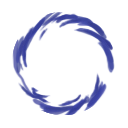
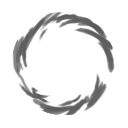
implement custom orb vfx

Changed region(s): [[0.0938, 0.0938, 0.9062, 0.5938], [0.1562, 0.5938, 0.8438, 0.9062], [0.3125, 0.25, 0.3438, 0.3125]]

diff --git a/src/main/java/hydrologistmod/ui/EnergyOrbHydrologist.java b/src/main/java/hydrologistmod/ui/EnergyOrbHydrologist.java
@@ -1,0 +1,153 @@
+package hydrologistmod.ui;
+
+import basemod.abstracts.CustomEnergyOrb;
+import com.badlogic.gdx.Gdx;
+import com.badlogic.gdx.graphics.Color;
+import com.badlogic.gdx.graphics.GL20;
+import com.badlogic.gdx.graphics.Texture;
+import com.badlogic.gdx.graphics.g2d.SpriteBatch;
+import com.badlogic.gdx.graphics.g2d.TextureRegion;
+import com.badlogic.gdx.graphics.glutils.FrameBuffer;
+import com.badlogic.gdx.math.Interpolation;
+import com.megacrit.cardcrawl.cards.AbstractCard;
+import com.megacrit.cardcrawl.core.Settings;
+import com.megacrit.cardcrawl.helpers.ImageMaster;
+import hydrologistmod.HydrologistMod;
+import hydrologistmod.patches.HydrologistTags;
+
+import java.util.HashMap;
+
+public class EnergyOrbHydrologist extends CustomEnergyOrb {
+    private static TextureRegion HYDROLOGIST_ORB_BACKGROUND = new TextureRegion(new Texture("hydrologistmod/images/char/orb/background.png"));
+    private static TextureRegion HYDROLOGIST_ORB_LAYER_2 = new TextureRegion(new Texture("hydrologistmod/images/char/orb/layer2.png"));
+    private static TextureRegion HYDROLOGIST_ORB_LAYER_3 = new TextureRegion(new Texture("hydrologistmod/images/char/orb/layer3.png"));
+    private static TextureRegion HYDROLOGIST_ORB_LAYER_4 = new TextureRegion(new Texture("hydrologistmod/images/char/orb/layer4.png"));
+    private static TextureRegion HYDROLOGIST_ORB_LAYER_5 = new TextureRegion(new Texture("hydrologistmod/images/char/orb/layer5.png"));
+    private static TextureRegion HYDROLOGIST_ORB_LAYER_2D = new TextureRegion(new Texture("hydrologistmod/images/char/orb/layer2d.png"));
+    private static TextureRegion HYDROLOGIST_ORB_LAYER_3D = new TextureRegion(new Texture("hydrologistmod/images/char/orb/layer3d.png"));
+    private static TextureRegion HYDROLOGIST_ORB_LAYER_4D = new TextureRegion(new Texture("hydrologistmod/images/char/orb/layer4d.png"));
+    private static TextureRegion HYDROLOGIST_ORB_LAYER_5D = new TextureRegion(new Texture("hydrologistmod/images/char/orb/layer5d.png"));
+    private static TextureRegion HYDROLOGIST_ORB_MASK = new TextureRegion(new Texture("hydrologistmod/images/char/orb/mask.png"));
+    private static TextureRegion HYDROLOGIST_ORB_LAYER_6 = new TextureRegion(new Texture("hydrologistmod/images/char/orb/border.png"));
+    private static float SPIN_OFFSET_X = 32.0f * Settings.scale;
+    private static float SPIN_OFFSET_Y = -32.0f * Settings.scale;
+    private static float OFFSET_X = 0.0f * Settings.scale;
+    private static float OFFSET_Y = 20.0f * Settings.scale;
+    private static float ORB_SCALE = 1.15f * Settings.scale;
+
+    private FrameBuffer fbo;
+    private float angle2;
+    private float angle3;
+    private float angle4;
+    private float angle5;
+
+    private static Color WATER_COLOR = Color.BLUE.cpy();
+    private static Color ICE_COLOR = Color.CYAN.cpy();
+    private static Color STEAM_COLOR = Color.LIGHT_GRAY.cpy();
+    private static HashMap<AbstractCard.CardTags, Color> colorsMap;
+    private static HashMap<AbstractCard.CardTags, Float> speedsMap;
+    private static float TRANSITION_TIME = 1.0f;
+    private AbstractCard.CardTags current = HydrologistTags.WATER;
+    private AbstractCard.CardTags target = HydrologistTags.WATER;
+    private float transitionTimer = 0.0f;
+    private Color color = WATER_COLOR.cpy();
+
+    public EnergyOrbHydrologist() {
+        super(null, null, null);
+        fbo = HydrologistMod.createBuffer();
+
+        orbVfx = ImageMaster.loadImage("hydrologistmod/images/char/orb/vfx.png");
+
+        if (colorsMap == null) {
+            colorsMap = new HashMap<>();
+            colorsMap.put(HydrologistTags.ICE, ICE_COLOR);
+            colorsMap.put(HydrologistTags.WATER, WATER_COLOR);
+            colorsMap.put(HydrologistTags.STEAM, STEAM_COLOR);
+        }
+        if (speedsMap == null) {
+            speedsMap = new HashMap<>();
+            speedsMap.put(HydrologistTags.ICE, 0.5f);
+            speedsMap.put(HydrologistTags.WATER, 1.0f);
+            speedsMap.put(HydrologistTags.STEAM, 1.5f);
+        }
+    }
+
+    @Override
+    public void updateOrb(int energyCount) {
+        float time = Gdx.graphics.getDeltaTime();
+        float multiplier;
+
+        //update color and spin speed
+        if (transitionTimer > 0.0f) {
+            color.r = Interpolation.linear.apply(colorsMap.get(target).r, colorsMap.get(current).r, transitionTimer / TRANSITION_TIME);
+            color.g = Interpolation.linear.apply(colorsMap.get(target).g, colorsMap.get(current).g, transitionTimer / TRANSITION_TIME);
+            color.b = Interpolation.linear.apply(colorsMap.get(target).b, colorsMap.get(current).b, transitionTimer / TRANSITION_TIME);
+            multiplier = Interpolation.linear.apply(speedsMap.get(target), speedsMap.get(current),transitionTimer / TRANSITION_TIME);
+            transitionTimer -= time;
+        } else {
+            current = target;
+            color = colorsMap.get(current).cpy();
+            multiplier = speedsMap.get(current);
+        }
+
+        if (energyCount == 0) {
+            angle5 += time * 5.0f * multiplier;
+            angle4 += time * -5.0f * multiplier;
+            angle3 += time * 8.0f * multiplier;
+            angle2 += time * -8.0f * multiplier;
+        } else {
+            angle5 += time * 20.0f * multiplier;
+            angle4 += time * -20.0f * multiplier;
+            angle3 += time * 40.0f * multiplier;
+            angle2 += time * -40.0f * multiplier;
+        }
+    }
+
+    @Override
+    public void renderOrb(SpriteBatch sb, boolean enabled, float current_x, float current_y) {
+        sb.end();
+
+        //render pre-mask in buffer
+        HydrologistMod.beginBuffer(fbo);
+        sb.begin();
+        sb.setColor(color);
+        sb.setBlendFunction(GL20.GL_SRC_ALPHA, GL20.GL_ONE_MINUS_SRC_ALPHA);
+        sb.draw(HYDROLOGIST_ORB_BACKGROUND, current_x - (HYDROLOGIST_ORB_BACKGROUND.getRegionWidth() / 2.0f) + OFFSET_X, current_y - (HYDROLOGIST_ORB_BACKGROUND.getRegionHeight() / 2.0f) + OFFSET_Y, HYDROLOGIST_ORB_BACKGROUND.getRegionWidth() / 2.0f, HYDROLOGIST_ORB_BACKGROUND.getRegionHeight() / 2.0f, HYDROLOGIST_ORB_BACKGROUND.getRegionWidth(), HYDROLOGIST_ORB_BACKGROUND.getRegionHeight(), ORB_SCALE, ORB_SCALE, 0.0f);
+        if (enabled) {
+            sb.draw(HYDROLOGIST_ORB_LAYER_2, current_x - (HYDROLOGIST_ORB_LAYER_2.getRegionWidth() / 2.0f) + SPIN_OFFSET_X + OFFSET_X, current_y - (HYDROLOGIST_ORB_LAYER_2.getRegionHeight() / 2.0f) + SPIN_OFFSET_Y + OFFSET_Y, HYDROLOGIST_ORB_LAYER_2.getRegionWidth() / 2.0f, HYDROLOGIST_ORB_LAYER_2.getRegionHeight() / 2.0f, HYDROLOGIST_ORB_LAYER_2.getRegionWidth(), HYDROLOGIST_ORB_LAYER_2.getRegionHeight(), ORB_SCALE, ORB_SCALE, angle2);
+            sb.draw(HYDROLOGIST_ORB_LAYER_3, current_x - (HYDROLOGIST_ORB_LAYER_3.getRegionWidth() / 2.0f) + SPIN_OFFSET_X + OFFSET_X, current_y - (HYDROLOGIST_ORB_LAYER_3.getRegionHeight() / 2.0f) + SPIN_OFFSET_Y + OFFSET_Y, HYDROLOGIST_ORB_LAYER_3.getRegionWidth() / 2.0f, HYDROLOGIST_ORB_LAYER_3.getRegionHeight() / 2.0f, HYDROLOGIST_ORB_LAYER_3.getRegionWidth(), HYDROLOGIST_ORB_LAYER_3.getRegionHeight(), ORB_SCALE, ORB_SCALE, angle3);
+            sb.draw(HYDROLOGIST_ORB_LAYER_4, current_x - (HYDROLOGIST_ORB_LAYER_4.getRegionWidth() / 2.0f) + SPIN_OFFSET_X + OFFSET_X, current_y - (HYDROLOGIST_ORB_LAYER_4.getRegionHeight() / 2.0f) + SPIN_OFFSET_Y + OFFSET_Y, HYDROLOGIST_ORB_LAYER_4.getRegionWidth() / 2.0f, HYDROLOGIST_ORB_LAYER_4.getRegionHeight() / 2.0f, HYDROLOGIST_ORB_LAYER_4.getRegionWidth(), HYDROLOGIST_ORB_LAYER_4.getRegionHeight(), ORB_SCALE, ORB_SCALE, angle4);
+            sb.draw(HYDROLOGIST_ORB_LAYER_5, current_x - (HYDROLOGIST_ORB_LAYER_5.getRegionWidth() / 2.0f) + SPIN_OFFSET_X + OFFSET_X, current_y - (HYDROLOGIST_ORB_LAYER_5.getRegionHeight() / 2.0f) + SPIN_OFFSET_Y + OFFSET_Y, HYDROLOGIST_ORB_LAYER_5.getRegionWidth() / 2.0f, HYDROLOGIST_ORB_LAYER_5.getRegionHeight() / 2.0f, HYDROLOGIST_ORB_LAYER_5.getRegionWidth(), HYDROLOGIST_ORB_LAYER_5.getRegionHeight(), ORB_SCALE, ORB_SCALE, angle5);
+        } else {
+            sb.draw(HYDROLOGIST_ORB_LAYER_2D, current_x - (HYDROLOGIST_ORB_LAYER_2D.getRegionWidth() / 2.0f) + SPIN_OFFSET_X + OFFSET_X, current_y - (HYDROLOGIST_ORB_LAYER_2D.getRegionHeight() / 2.0f) + SPIN_OFFSET_Y + OFFSET_Y, HYDROLOGIST_ORB_LAYER_2D.getRegionWidth() / 2.0f, HYDROLOGIST_ORB_LAYER_2D.getRegionHeight() / 2.0f, HYDROLOGIST_ORB_LAYER_2D.getRegionWidth(), HYDROLOGIST_ORB_LAYER_2D.getRegionHeight(), ORB_SCALE, ORB_SCALE, angle2);
+            sb.draw(HYDROLOGIST_ORB_LAYER_3D, current_x - (HYDROLOGIST_ORB_LAYER_3D.getRegionWidth() / 2.0f) + SPIN_OFFSET_X + OFFSET_X, current_y - (HYDROLOGIST_ORB_LAYER_3D.getRegionHeight() / 2.0f) + SPIN_OFFSET_Y + OFFSET_Y, HYDROLOGIST_ORB_LAYER_3D.getRegionWidth() / 2.0f, HYDROLOGIST_ORB_LAYER_3D.getRegionHeight() / 2.0f, HYDROLOGIST_ORB_LAYER_3D.getRegionWidth(), HYDROLOGIST_ORB_LAYER_3D.getRegionHeight(), ORB_SCALE, ORB_SCALE, angle3);
+            sb.draw(HYDROLOGIST_ORB_LAYER_4D, current_x - (HYDROLOGIST_ORB_LAYER_4D.getRegionWidth() / 2.0f) + SPIN_OFFSET_X + OFFSET_X, current_y - (HYDROLOGIST_ORB_LAYER_4D.getRegionHeight() / 2.0f) + SPIN_OFFSET_Y + OFFSET_Y, HYDROLOGIST_ORB_LAYER_4D.getRegionWidth() / 2.0f, HYDROLOGIST_ORB_LAYER_4D.getRegionHeight() / 2.0f, HYDROLOGIST_ORB_LAYER_4D.getRegionWidth(), HYDROLOGIST_ORB_LAYER_4D.getRegionHeight(), ORB_SCALE, ORB_SCALE, angle4);
+            sb.draw(HYDROLOGIST_ORB_LAYER_5D, current_x - (HYDROLOGIST_ORB_LAYER_5D.getRegionWidth() / 2.0f) + SPIN_OFFSET_X + OFFSET_X, current_y - (HYDROLOGIST_ORB_LAYER_5D.getRegionHeight() / 2.0f) + SPIN_OFFSET_Y + OFFSET_Y, HYDROLOGIST_ORB_LAYER_5D.getRegionWidth() / 2.0f, HYDROLOGIST_ORB_LAYER_5D.getRegionHeight() / 2.0f, HYDROLOGIST_ORB_LAYER_5D.getRegionWidth(), HYDROLOGIST_ORB_LAYER_5D.getRegionHeight(), ORB_SCALE, ORB_SCALE, angle5);
+        }
+        sb.setBlendFunction(0, GL20.GL_SRC_ALPHA);
+        sb.setColor(new Color(1, 1, 1, 1));
+        sb.draw(HYDROLOGIST_ORB_MASK, current_x - (HYDROLOGIST_ORB_MASK.getRegionWidth() / 2.0f) + OFFSET_X, current_y - (HYDROLOGIST_ORB_MASK.getRegionHeight() / 2.0f) + OFFSET_Y, (HYDROLOGIST_ORB_MASK.getRegionWidth() / 2.0f), (HYDROLOGIST_ORB_MASK.getRegionHeight() / 2.0f), HYDROLOGIST_ORB_MASK.getRegionWidth(), HYDROLOGIST_ORB_MASK.getRegionHeight(), ORB_SCALE, ORB_SCALE, 0.0f);
+        sb.setBlendFunction(GL20.GL_SRC_ALPHA, GL20.GL_ONE_MINUS_SRC_ALPHA);
+        fbo.end();
+        sb.end();
+        TextureRegion texture = HydrologistMod.getBufferTexture(fbo);
+
+        //render whole
+        sb.begin();
+        sb.setColor(Color.WHITE);
+        sb.draw(texture, 0.0f, 0.0f);
+        sb.draw(HYDROLOGIST_ORB_LAYER_6, current_x - (HYDROLOGIST_ORB_LAYER_6.getRegionWidth() / 2.0f) + OFFSET_X, current_y - (HYDROLOGIST_ORB_LAYER_6.getRegionHeight() / 2.0f) + OFFSET_Y, (HYDROLOGIST_ORB_LAYER_6.getRegionWidth() / 2.0f), (HYDROLOGIST_ORB_LAYER_6.getRegionHeight() / 2.0f), HYDROLOGIST_ORB_LAYER_6.getRegionWidth(), HYDROLOGIST_ORB_LAYER_6.getRegionHeight(), ORB_SCALE, ORB_SCALE, 0.0f);
+    }
+
+    public void changeColor(AbstractCard.CardTags tag) {
+        if (!colorsMap.containsKey(tag)) {
+            System.out.println("WATERBENDING_MANAGER: attempted to change to invalid tag");
+            return;
+        }
+        if (tag != target) {
+            current = target;
+            target = tag;
+            transitionTimer = TRANSITION_TIME;
+        }
+    }
+}

diff --git a/src/main/java/hydrologistmod/character/HydrologistCharacter.java b/src/main/java/hydrologistmod/character/HydrologistCharacter.java
@@ -26,6 +26,7 @@ import hydrologistmod.cards.*;
 import hydrologistmod.patches.AbstractCardEnum;
 import hydrologistmod.patches.HydrologistEnum;
 import hydrologistmod.relics.WaterPouch;
+import hydrologistmod.ui.EnergyOrbHydrologist;
 import hydrologistmod.vfx.HydrologistWaterbendingManager;
 
 import java.util.ArrayList;
@@ -44,28 +45,17 @@ public class HydrologistCharacter extends CustomPlayer {
     private static final Color hydrologistCyan = CardHelper.getColor(3, 240, 252); //#03f0fc / 3, 240, 252
     private static final float DIALOG_X_ADJUSTMENT = 0.0F;
     private static final float DIALOG_Y_ADJUSTMENT = 220.0F;
-    private static final String ORB_VFX_PATH = "hydrologistmod/images/char/orb/vfx.png";
-    private static final String[] ORB_TEXTURES = {
-            "hydrologistmod/images/char/orb/layer1.png",
-            "hydrologistmod/images/char/orb/layer2.png",
-            "hydrologistmod/images/char/orb/layer3.png",
-            "hydrologistmod/images/char/orb/layer4.png",
-            "hydrologistmod/images/char/orb/layer5.png",
-            "hydrologistmod/images/char/orb/layer6.png",
-            "hydrologistmod/images/char/orb/layer1d.png",
-            "hydrologistmod/images/char/orb/layer2d.png",
-            "hydrologistmod/images/char/orb/layer3d.png",
-            "hydrologistmod/images/char/orb/layer4d.png",
-            "hydrologistmod/images/char/orb/layer5d.png"
-    };
     private static final String WATER_BONE_NAME = "WaterDummy";
     private AnimationState.TrackEntry animationTrackEntry;
     private Bone waterBone;
     public Vector2 waterCoords = new Vector2();
     public HydrologistWaterbendingManager waterbending;
+    private EnergyOrbHydrologist orb;
 
     public HydrologistCharacter(String name) {
-        super(name, HydrologistEnum.HYDROLOGIST_CLASS, new CustomEnergyOrb(ORB_TEXTURES, ORB_VFX_PATH, null), null, null);
+        super(name, HydrologistEnum.HYDROLOGIST_CLASS, new EnergyOrbHydrologist(), null, null);
+
+        orb = (EnergyOrbHydrologist)energyOrb;
 
         this.dialogX = this.drawX + DIALOG_X_ADJUSTMENT * Settings.scale;
         this.dialogY = this.drawY + DIALOG_Y_ADJUSTMENT * Settings.scale;
@@ -146,6 +136,7 @@ public class HydrologistCharacter extends CustomPlayer {
             AbstractCard.CardTags tag = ((AbstractHydrologistCard)c).getHydrologistSubtype();
             if (tag != null) {
                 waterbending.changeBackground(tag);
+                orb.changeColor(tag);
             }
         }
         super.useCard(c, monster, energyOnUse);
